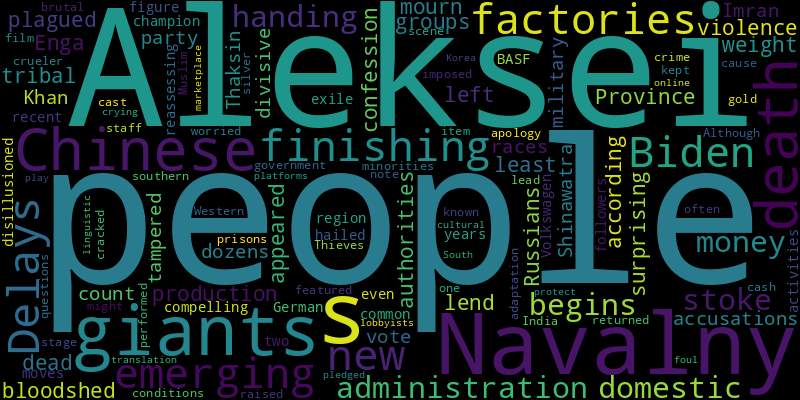
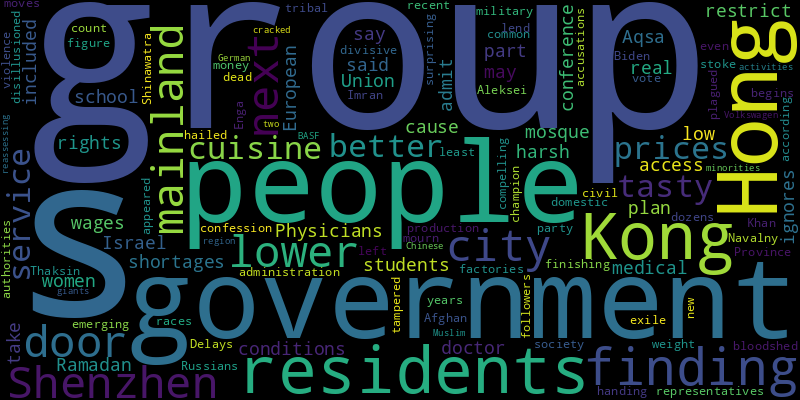
chore(bot): 🟩 auto commit

diff --git a/README.md b/README.md
@@ -2,41 +2,41 @@
 Auto RSS New York Times and Generate Word Cloud
 
 ## New York Times Global News
-* An exhibition in the Israeli-occupied West Bank features works evoking Palestinian life and protest. But the show is as much about the art that cannot be displayed, lost forever in the war.
-* The death of Aleksei A. Navalny in a Russian prison has been a blow to an opposition movement in which he was the figurehead. But it has also raised hopes of a united front against President Vladimir V. Putin.
-* At least 366 people were detained over the weekend, leading to concern that the arrests could signal greater government repression ahead of Russia’s elections in March.
-* Officials in Budapest declined to meet with a bipartisan group of American lawmakers who favor expanding the military alliance.
-* Despite U.S. pressure, the idea of a Palestinian state seems further away than ever, as Israel’s Jews move rightward and its Palestinians fear a backlash.
-* Thaksin Shinawatra, a divisive and compelling figure even in his years of exile, was once hailed as a champion of the common people. His recent moves have disillusioned followers.
-* The demonstrations took a pause after the Oct. 7 attacks, but the anger at the Israeli leadership never went away.
-* At least 400 people have been detained across Russia since Aleksei Navalny’s death, a rights group reported. Those who came to lay flowers found solace in the company of others.
-* An activist who thrived on agitation, he feared irrelevancy in exile. Winning new respect as he continued to lambast the Kremlin from behind bars cost him his life.
-* President Volodymyr Zelensky pushed back against skepticism of a Ukraine victory, calling on world leaders not to ask when the war would end, but why Russia was still able to wage it.
+* Trump. Indian food. Matthew Perry. And books, books, books. Excerpts from letters obtained by The Times show Mr. Navalny’s active mind, even amid brutal prison conditions.
+* The sudden death of Aleksei Navalny left a vacuum in Russia’s opposition. His wife, Yulia Navalnaya, signaled that she would try to fill the void.
+* Reducing access to Al Aqsa, the sacred mosque compound in Jerusalem that has long been a flashpoint for tensions, may set off unrest, some Israelis warned.
+* The continent has the highest rate of gender-related killings of women in the world, according to the United Nations. Activists accuse officials of ignoring the issue and blaming the victims.
+* The U.S. military said an anti-ship missile launched from Yemen damaged the ship, the Rubymar.
+* The group said it would not take part in a conference that also included women’s rights groups, the European Union and representatives of Afghan civil society.
+* The German politician has been European Commission president since 2019, becoming a key contact for the Biden administration.
+* Martine Moïse, the widow of President Jovenel Moïse, was charged by a Haitian judge with conspiring in his assassination. She was seriously injured in the attack.
+* Refugees who joined the largely overlooked Fatemiyoun Brigade to battle for Shiite Islam and escape crushing poverty had become a force in Tehran’s proxy wars.
+* Dozens of countries are expected to argue before the International Court of Justice about the legality of Israeli actions in the West Bank and East Jerusalem.
 
 ![Global](./global.png)
 ## New York Times United States News
+* Nicole McClure said she spent hours in a jail cell, enduring taunts, until a delayed medical check revealed that she had a life-threatening problem with her brain.
+* In some districts, teachers are taking more sick days since the pandemic. A shortage of substitutes can make matters worse.
 * Desperate migrants. Cartel violence. It’s all happening in the Chiltons’ backyard.
 * San Francisco has printed candidate names in Chinese characters since 1999. But now the city is cracking down on ones that some argue go overboard with flattering, flowery phrases.
-* Saunas in the state, part of a tradition with roots in the 1800s, have been especially popular since the pandemic as more people seek a communal experience.
-* Regardless of whether Fani T. Willis is disqualified from leading the high-stakes case, the extraordinary detour it has taken may have changed it fundamentally.
-* The state is especially susceptible to floods because it has experienced a particularly wet month, experts said.
-* The state’s Republican primary is scheduled for Saturday, Feb. 24.
-* Bracing for yet another election against Donald Trump, America’s liberals are feeling the fatigue. “We’re kind of, like, crises-ed out,” one Democrat said.
-* The police in Pueblo, Colo., said that they had arrested Corena Rose Minjarez, 36, and Jesus Dominguez, 35, and charged them with murder.
-* During a Fox News town hall event, Ms. Haley criticized President Biden and Donald Trump for their actions related to the platform.
-* President Biden may owe his place in the top third to his predecessor: Mr. Biden’s signature accomplishment, according to the historians, was evicting Donald J. Trump from the Oval Office.
+* Nicholas Jordan, 25, who was enrolled at the school, was arrested on murder charges in Colorado Springs.
+* His winding social media post on Monday contained no reference to Vladimir V. Putin, the Russian president, who has been widely condemned after the death of one of his most vocal critics, Aleksei A. Navalny.
+* The new maps, which were drawn by the state’s Democratic governor, Tony Evers, and signed into law Monday, include an almost even split between Democratic- and Republican-leaning districts.
+* Executives of companies with clean energy projects are facing questions about the potential for a rollback of the law and its incentives if a Republican wins.
+* The downing of the Reaper drone is another escalation of violence between the United States and Iran-backed groups.
+* An editor finds fun by making the game just a bit harder for himself.
 
 ![US](./usnews.png)
 ## New York Times Asia News
+* Hong Kong residents are finding in Shenzhen, the mainland city next door, lower prices, better service and tasty cuisine.
+* Physicians say the government’s plan to admit more students to medical school ignores the real cause of doctor shortages: harsh conditions and low wages.
+* Also, Israel may restrict access to the Aqsa mosque during Ramadan.
+* The group said it would not take part in a conference that also included women’s rights groups, the European Union and representatives of Afghan civil society.
 * Delays in finishing new factories are emerging, just as the Biden administration begins handing out money to stoke domestic production.
 * The bloodshed in Enga Province, which has been plagued by violence between tribal groups, left at least 26 people dead, according to the authorities.
 * Also, Russians mourn Aleksei Navalny.
 * The surprising confession appeared to lend weight to accusations by Imran Khan’s party that the military had tampered with the vote count in dozens of races.
 * Thaksin Shinawatra, a divisive and compelling figure even in his years of exile, was once hailed as a champion of the common people. His recent moves have disillusioned followers.
 * Volkswagen and BASF, two German giants, are reassessing their activities in the region, where the Chinese government has cracked down on Muslim minorities.
-* Although Aleksei A. Navalny’s cause of death is not known, his staff often worried that brutal conditions imposed on him in ever crueler prisons might lead to his death.
-* Thieves in southern India kept the cash, the gold and most of the silver, but returned to the scene of the crime with one item, and an apology note.
-* A stage adaptation of the film featured an all-Western cast, was performed in Chinese and raised questions about translation, both linguistic and cultural.
-* South Korea pledged to protect its online platforms from marketplace giants, but lobbyists are crying foul play.
 
 ![Asian](./asian.png)
